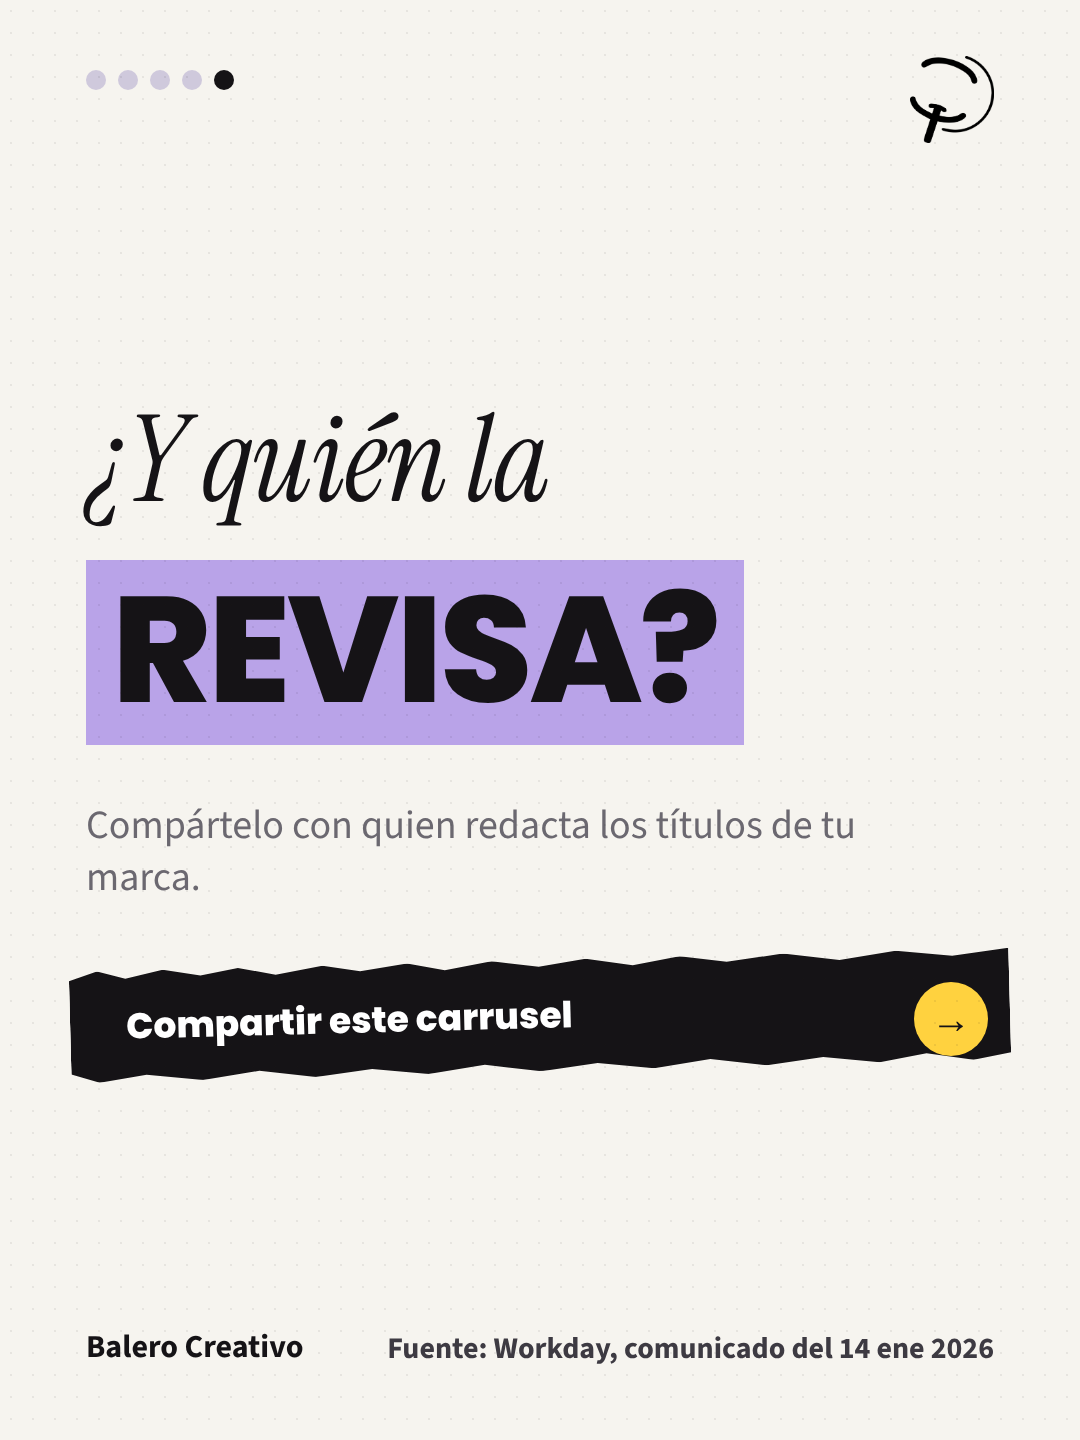
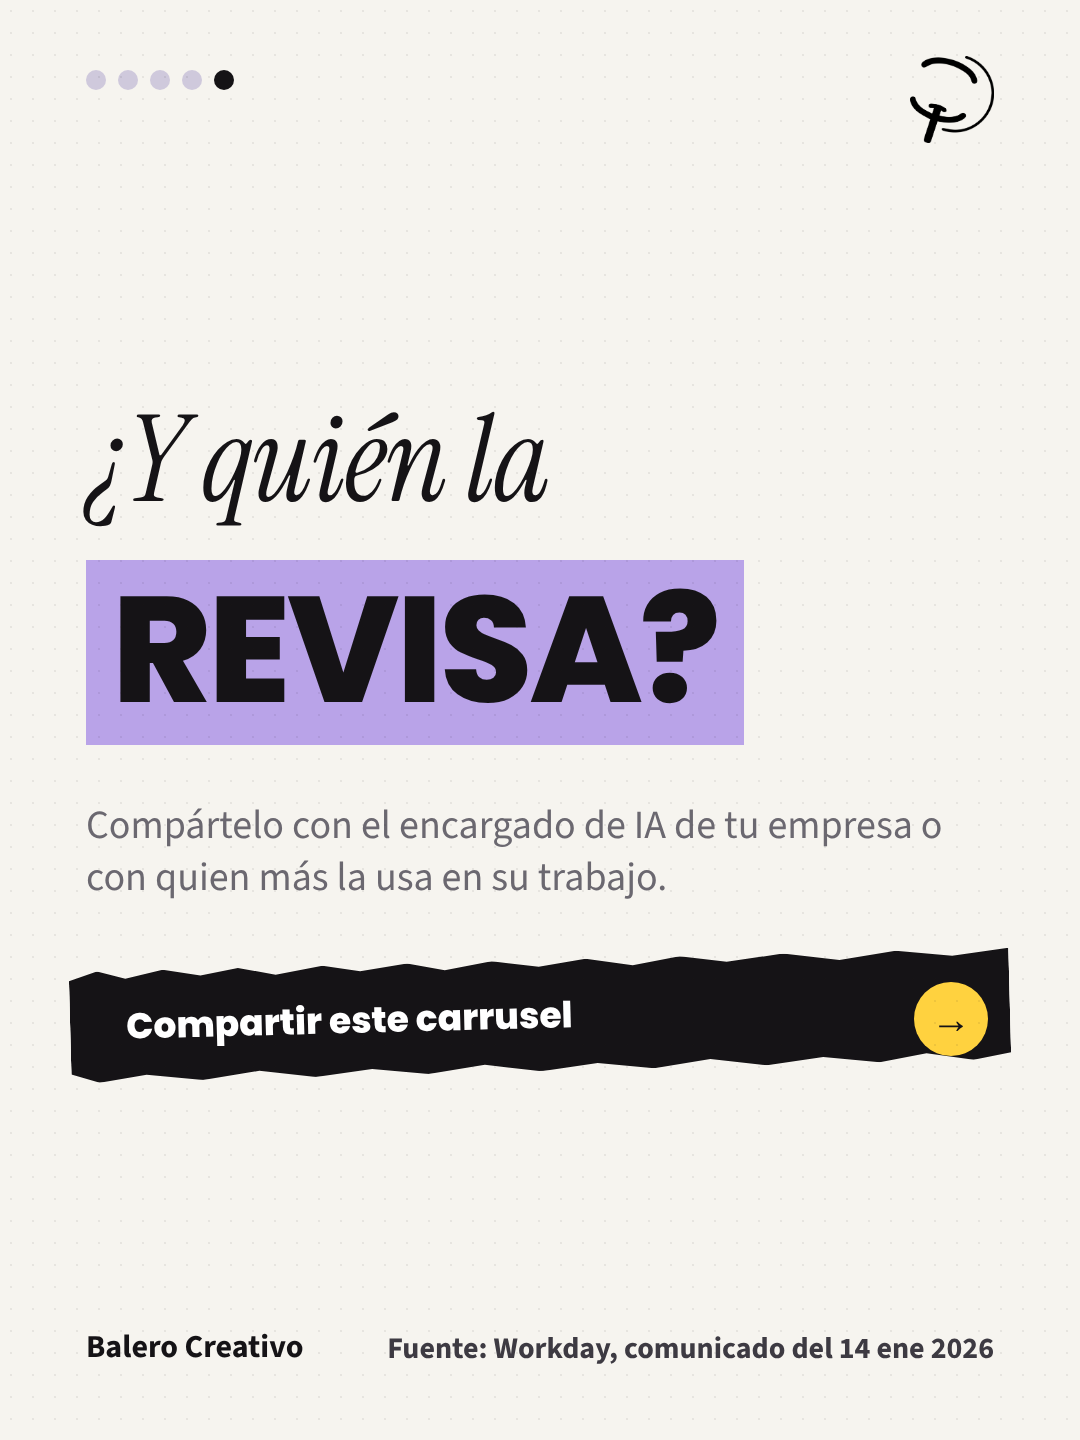
Workday: el CTA sugiere compartir con el encargado de IA o con quien más la usa
Claude-Session: https://claude.ai/code/session_01Bq7ZC7FDz5LcdZBgNXTuBm

Changed region(s): [[0.0917, 0.5625, 0.8861, 0.625]]

diff --git a/clientes/balero/diseno/2026-11/estilo-editorial/semana/workday.html b/clientes/balero/diseno/2026-11/estilo-editorial/semana/workday.html
@@ -60,4 +60,4 @@ body{background:#888}
 .meter{position:absolute;left:86px;right:86px;background:#fff;border:4px solid #151316;border-radius:26px;box-shadow:10px 12px 0 #151316;overflow:hidden}
 
 .bigy{position:absolute;left:86px;font:800 330px/.9 Poppins;background:#FFD23F;padding:10px 30px 24px;letter-spacing:-.04em}
-</style></head><body><div class="s" id="s1"><div class="dots"><i style="background:#151316"></i><i style="background:#cfc9dc"></i><i style="background:#cfc9dc"></i><i style="background:#cfc9dc"></i><i style="background:#cfc9dc"></i></div><img class="logo" src="/home/user/balero/.claude/skills/balero-imagenes/assets/logo-balero.png"><div class="kick" style="top:170px">Estudio de Workday · ene 2026</div><div class="serif" style="position:absolute;left:86px;top:250px;font-size:100px;line-height:1">Casi</div><div class="bigy" style="top:340px">40%</div><div class="big" style="top:730px;font-size:52px;line-height:1.15">DEL TIEMPO QUE TE AHORRA LA IA</div><div class="serif" style="position:absolute;left:86px;top:860px;font-size:84px;line-height:1"><span class="hl">se va en corregirla.</span></div><div style="position:absolute;left:86px;top:1020px;width:80px;height:150px;background:#FFD23F;border:4px solid #151316;border-radius:16px;box-shadow:6px 7px 0 #151316"></div><div style="position:absolute;left:178px;top:1020px;width:80px;height:150px;background:#FFD23F;border:4px solid #151316;border-radius:16px;box-shadow:6px 7px 0 #151316"></div><div style="position:absolute;left:270px;top:1020px;width:80px;height:150px;background:#FFD23F;border:4px solid #151316;border-radius:16px;box-shadow:6px 7px 0 #151316"></div><div style="position:absolute;left:362px;top:1020px;width:80px;height:150px;background:#FFD23F;border:4px solid #151316;border-radius:16px;box-shadow:6px 7px 0 #151316"></div><div style="position:absolute;left:454px;top:1020px;width:80px;height:150px;background:#fff;border:4px solid #151316;border-radius:16px;box-shadow:6px 7px 0 #151316"></div><div style="position:absolute;left:546px;top:1020px;width:80px;height:150px;background:#fff;border:4px solid #151316;border-radius:16px;box-shadow:6px 7px 0 #151316"></div><div style="position:absolute;left:638px;top:1020px;width:80px;height:150px;background:#fff;border:4px solid #151316;border-radius:16px;box-shadow:6px 7px 0 #151316"></div><div style="position:absolute;left:730px;top:1020px;width:80px;height:150px;background:#fff;border:4px solid #151316;border-radius:16px;box-shadow:6px 7px 0 #151316"></div><div style="position:absolute;left:822px;top:1020px;width:80px;height:150px;background:#fff;border:4px solid #151316;border-radius:16px;box-shadow:6px 7px 0 #151316"></div><div style="position:absolute;left:914px;top:1020px;width:80px;height:150px;background:#fff;border:4px solid #151316;border-radius:16px;box-shadow:6px 7px 0 #151316"></div><div class="lbl" style="left:86px;top:1204px;font-size:26px;color:#3d3a42">4 DE CADA 10 HORAS AHORRADAS SE VAN EN CORREGIR</div><div class="foot"><span>Balero Creativo</span></div><div style="position:absolute;right:86px;bottom:70px;font:800 30px Poppins;letter-spacing:.14em">DESLIZA →</div></div><div class="s" id="s2"><div class="dots"><i style="background:#cfc9dc"></i><i style="background:#151316"></i><i style="background:#cfc9dc"></i><i style="background:#cfc9dc"></i><i style="background:#cfc9dc"></i></div><img class="logo" src="/home/user/balero/.claude/skills/balero-imagenes/assets/logo-balero.png"><div class="chip">EL COSTO OCULTO</div><div class="t" style="top:290px;font-size:100px">Se va en<br>tres <span class="serif" style="font-size:1.25em;text-transform:none;font-weight:400;background:#FFD23F;padding:0 18px">tareas.</span></div><div class="body" style="top:590px;width:880px">Corregir, reescribir y verificar lo que produce la IA.</div><div class="row2" style="top:800px;"><i>1</i>Corregir errores</div><div class="row2" style="top:940px;"><i>2</i>Reescribir el tono</div><div class="row2" style="top:1080px;"><i>3</i>Verificar cada dato</div><div class="foot"><span>Balero Creativo</span></div><div style="position:absolute;right:86px;bottom:70px;font:700 30px 'Source Sans Pro';color:#3d3a42;text-align:right;max-width:640px">Encuesta de Workday, ene 2026</div></div><div class="s" id="s3"><div class="dots"><i style="background:#cfc9dc"></i><i style="background:#cfc9dc"></i><i style="background:#151316"></i><i style="background:#cfc9dc"></i><i style="background:#cfc9dc"></i></div><img class="logo" src="/home/user/balero/.claude/skills/balero-imagenes/assets/logo-balero.png"><div class="chip">OJO</div><div class="t" style="top:290px;font-size:92px">Es un estudio de<br>empresas <span class="serif" style="font-size:1.25em;text-transform:none;font-weight:400;background:#FFD23F;padding:0 18px">grandes.</span></div><div class="body" style="top:610px;width:880px">No es un dato de pymes ni tiene verificación independiente.</div><div style="position:absolute;left:86px;top:780px;width:430px;height:300px;background:#fff;border:4px solid #151316;border-radius:26px;box-shadow:8px 9px 0 #151316;display:flex;flex-direction:column;justify-content:center;padding:0 36px"><div style="font:800 76px/1 Poppins">3,200</div><div style="font:600 32px/1.2 'Source Sans Pro',sans-serif;margin-top:14px">empleados encuestados</div></div><div style="position:absolute;left:564px;top:780px;width:430px;height:300px;background:#B9A3E8;border:4px solid #151316;border-radius:26px;box-shadow:8px 9px 0 #151316;display:flex;flex-direction:column;justify-content:center;padding:0 36px"><div style="font:800 52px/1 Poppins">USD 100 M+</div><div style="font:600 32px/1.2 'Source Sans Pro',sans-serif;margin-top:14px">ingresos mínimos de las empresas</div></div><div style="position:absolute;left:86px;top:1140px;width:908px;height:100px;background:#151316;color:#fff;font:800 36px/100px Poppins;text-align:center;letter-spacing:.06em;border-radius:20px">NO ES UN DATO DE PYMES</div><div class="foot"><span>Balero Creativo</span></div></div><div class="s" id="s4"><div class="dots"><i style="background:#cfc9dc"></i><i style="background:#cfc9dc"></i><i style="background:#cfc9dc"></i><i style="background:#151316"></i><i style="background:#cfc9dc"></i></div><img class="logo" src="/home/user/balero/.claude/skills/balero-imagenes/assets/logo-balero.png"><div class="chip">LA LECCIÓN</div><div class="t" style="top:290px;font-size:96px">Si alguien revisa,<br>la IA <span class="serif" style="font-size:1.25em;text-transform:none;font-weight:400;background:#FFD23F;padding:0 18px">ahorra.</span></div><div class="body" style="top:610px;width:880px">Mide cuánto tiempo te toma corregir lo que genera la IA.</div><div style="position:absolute;left:86px;top:780px;width:908px;height:140px;display:flex;align-items:center;gap:34px;padding:0 44px;background:#fff;border:4px solid #151316;border-radius:26px;box-shadow:8px 9px 0 #151316;"><b style="font:800 64px Poppins;min-width:50px">1</b><span style="font:800 44px Poppins">La IA genera</span></div><div class="sc" style="left:520px;top:922px;font-size:40px">↓</div><div style="position:absolute;left:86px;top:970px;width:908px;height:140px;display:flex;align-items:center;gap:34px;padding:0 44px;background:#fff;border:4px solid #151316;border-radius:26px;box-shadow:8px 9px 0 #151316;background:#B9A3E8;"><b style="font:800 64px Poppins;min-width:50px">2</b><span style="font:800 44px Poppins">Alguien revisa</span></div><div class="sc" style="left:520px;top:1112px;font-size:40px">↓</div><div style="position:absolute;left:86px;top:1160px;width:908px;height:140px;display:flex;align-items:center;gap:34px;padding:0 44px;background:#fff;border:4px solid #151316;border-radius:26px;box-shadow:8px 9px 0 #151316;"><b style="font:800 64px Poppins;min-width:50px">3</b><span style="font:800 44px Poppins">Se publica</span></div><div class="foot"><span>Balero Creativo</span></div></div><div class="s" id="s5"><div class="dots"><i style="background:#cfc9dc"></i><i style="background:#cfc9dc"></i><i style="background:#cfc9dc"></i><i style="background:#cfc9dc"></i><i style="background:#151316"></i></div><img class="logo" src="/home/user/balero/.claude/skills/balero-imagenes/assets/logo-balero.png"><div class="serif" style="position:absolute;left:86px;top:400px;font-size:120px;line-height:1">¿Y quién la</div><div class="t" style="top:560px;font-size:150px"><span class="hl">revisa?</span></div><div class="body" style="top:800px;width:880px">Compártelo con quien redacta los títulos de tu marca.</div><div class="tape" style="top:960px;font-family:Poppins;font-weight:800;font-size:36px">Compartir este carrusel</div><div class="arrow" style="top:960px;transform:translateY(22px)">→</div><div class="foot"><span>Balero Creativo</span></div><div style="position:absolute;right:86px;bottom:70px;font:700 30px 'Source Sans Pro';color:#3d3a42;text-align:right;max-width:640px">Fuente: Workday, comunicado del 14 ene 2026</div></div></body></html>
+</style></head><body><div class="s" id="s1"><div class="dots"><i style="background:#151316"></i><i style="background:#cfc9dc"></i><i style="background:#cfc9dc"></i><i style="background:#cfc9dc"></i><i style="background:#cfc9dc"></i></div><img class="logo" src="/home/user/balero/.claude/skills/balero-imagenes/assets/logo-balero.png"><div class="kick" style="top:170px">Estudio de Workday · ene 2026</div><div class="serif" style="position:absolute;left:86px;top:250px;font-size:100px;line-height:1">Casi</div><div class="bigy" style="top:340px">40%</div><div class="big" style="top:730px;font-size:52px;line-height:1.15">DEL TIEMPO QUE TE AHORRA LA IA</div><div class="serif" style="position:absolute;left:86px;top:860px;font-size:84px;line-height:1"><span class="hl">se va en corregirla.</span></div><div style="position:absolute;left:86px;top:1020px;width:80px;height:150px;background:#FFD23F;border:4px solid #151316;border-radius:16px;box-shadow:6px 7px 0 #151316"></div><div style="position:absolute;left:178px;top:1020px;width:80px;height:150px;background:#FFD23F;border:4px solid #151316;border-radius:16px;box-shadow:6px 7px 0 #151316"></div><div style="position:absolute;left:270px;top:1020px;width:80px;height:150px;background:#FFD23F;border:4px solid #151316;border-radius:16px;box-shadow:6px 7px 0 #151316"></div><div style="position:absolute;left:362px;top:1020px;width:80px;height:150px;background:#FFD23F;border:4px solid #151316;border-radius:16px;box-shadow:6px 7px 0 #151316"></div><div style="position:absolute;left:454px;top:1020px;width:80px;height:150px;background:#fff;border:4px solid #151316;border-radius:16px;box-shadow:6px 7px 0 #151316"></div><div style="position:absolute;left:546px;top:1020px;width:80px;height:150px;background:#fff;border:4px solid #151316;border-radius:16px;box-shadow:6px 7px 0 #151316"></div><div style="position:absolute;left:638px;top:1020px;width:80px;height:150px;background:#fff;border:4px solid #151316;border-radius:16px;box-shadow:6px 7px 0 #151316"></div><div style="position:absolute;left:730px;top:1020px;width:80px;height:150px;background:#fff;border:4px solid #151316;border-radius:16px;box-shadow:6px 7px 0 #151316"></div><div style="position:absolute;left:822px;top:1020px;width:80px;height:150px;background:#fff;border:4px solid #151316;border-radius:16px;box-shadow:6px 7px 0 #151316"></div><div style="position:absolute;left:914px;top:1020px;width:80px;height:150px;background:#fff;border:4px solid #151316;border-radius:16px;box-shadow:6px 7px 0 #151316"></div><div class="lbl" style="left:86px;top:1204px;font-size:26px;color:#3d3a42">4 DE CADA 10 HORAS AHORRADAS SE VAN EN CORREGIR</div><div class="foot"><span>Balero Creativo</span></div><div style="position:absolute;right:86px;bottom:70px;font:800 30px Poppins;letter-spacing:.14em">DESLIZA →</div></div><div class="s" id="s2"><div class="dots"><i style="background:#cfc9dc"></i><i style="background:#151316"></i><i style="background:#cfc9dc"></i><i style="background:#cfc9dc"></i><i style="background:#cfc9dc"></i></div><img class="logo" src="/home/user/balero/.claude/skills/balero-imagenes/assets/logo-balero.png"><div class="chip">EL COSTO OCULTO</div><div class="t" style="top:290px;font-size:100px">Se va en<br>tres <span class="serif" style="font-size:1.25em;text-transform:none;font-weight:400;background:#FFD23F;padding:0 18px">tareas.</span></div><div class="body" style="top:590px;width:880px">Corregir, reescribir y verificar lo que produce la IA.</div><div class="row2" style="top:800px;"><i>1</i>Corregir errores</div><div class="row2" style="top:940px;"><i>2</i>Reescribir el tono</div><div class="row2" style="top:1080px;"><i>3</i>Verificar cada dato</div><div class="foot"><span>Balero Creativo</span></div><div style="position:absolute;right:86px;bottom:70px;font:700 30px 'Source Sans Pro';color:#3d3a42;text-align:right;max-width:640px">Encuesta de Workday, ene 2026</div></div><div class="s" id="s3"><div class="dots"><i style="background:#cfc9dc"></i><i style="background:#cfc9dc"></i><i style="background:#151316"></i><i style="background:#cfc9dc"></i><i style="background:#cfc9dc"></i></div><img class="logo" src="/home/user/balero/.claude/skills/balero-imagenes/assets/logo-balero.png"><div class="chip">OJO</div><div class="t" style="top:290px;font-size:92px">Es un estudio de<br>empresas <span class="serif" style="font-size:1.25em;text-transform:none;font-weight:400;background:#FFD23F;padding:0 18px">grandes.</span></div><div class="body" style="top:610px;width:880px">No es un dato de pymes ni tiene verificación independiente.</div><div style="position:absolute;left:86px;top:780px;width:430px;height:300px;background:#fff;border:4px solid #151316;border-radius:26px;box-shadow:8px 9px 0 #151316;display:flex;flex-direction:column;justify-content:center;padding:0 36px"><div style="font:800 76px/1 Poppins">3,200</div><div style="font:600 32px/1.2 'Source Sans Pro',sans-serif;margin-top:14px">empleados encuestados</div></div><div style="position:absolute;left:564px;top:780px;width:430px;height:300px;background:#B9A3E8;border:4px solid #151316;border-radius:26px;box-shadow:8px 9px 0 #151316;display:flex;flex-direction:column;justify-content:center;padding:0 36px"><div style="font:800 52px/1 Poppins">USD 100 M+</div><div style="font:600 32px/1.2 'Source Sans Pro',sans-serif;margin-top:14px">ingresos mínimos de las empresas</div></div><div style="position:absolute;left:86px;top:1140px;width:908px;height:100px;background:#151316;color:#fff;font:800 36px/100px Poppins;text-align:center;letter-spacing:.06em;border-radius:20px">NO ES UN DATO DE PYMES</div><div class="foot"><span>Balero Creativo</span></div></div><div class="s" id="s4"><div class="dots"><i style="background:#cfc9dc"></i><i style="background:#cfc9dc"></i><i style="background:#cfc9dc"></i><i style="background:#151316"></i><i style="background:#cfc9dc"></i></div><img class="logo" src="/home/user/balero/.claude/skills/balero-imagenes/assets/logo-balero.png"><div class="chip">LA LECCIÓN</div><div class="t" style="top:290px;font-size:96px">Si alguien revisa,<br>la IA <span class="serif" style="font-size:1.25em;text-transform:none;font-weight:400;background:#FFD23F;padding:0 18px">ahorra.</span></div><div class="body" style="top:610px;width:880px">Mide cuánto tiempo te toma corregir lo que genera la IA.</div><div style="position:absolute;left:86px;top:780px;width:908px;height:140px;display:flex;align-items:center;gap:34px;padding:0 44px;background:#fff;border:4px solid #151316;border-radius:26px;box-shadow:8px 9px 0 #151316;"><b style="font:800 64px Poppins;min-width:50px">1</b><span style="font:800 44px Poppins">La IA genera</span></div><div class="sc" style="left:520px;top:922px;font-size:40px">↓</div><div style="position:absolute;left:86px;top:970px;width:908px;height:140px;display:flex;align-items:center;gap:34px;padding:0 44px;background:#fff;border:4px solid #151316;border-radius:26px;box-shadow:8px 9px 0 #151316;background:#B9A3E8;"><b style="font:800 64px Poppins;min-width:50px">2</b><span style="font:800 44px Poppins">Alguien revisa</span></div><div class="sc" style="left:520px;top:1112px;font-size:40px">↓</div><div style="position:absolute;left:86px;top:1160px;width:908px;height:140px;display:flex;align-items:center;gap:34px;padding:0 44px;background:#fff;border:4px solid #151316;border-radius:26px;box-shadow:8px 9px 0 #151316;"><b style="font:800 64px Poppins;min-width:50px">3</b><span style="font:800 44px Poppins">Se publica</span></div><div class="foot"><span>Balero Creativo</span></div></div><div class="s" id="s5"><div class="dots"><i style="background:#cfc9dc"></i><i style="background:#cfc9dc"></i><i style="background:#cfc9dc"></i><i style="background:#cfc9dc"></i><i style="background:#151316"></i></div><img class="logo" src="/home/user/balero/.claude/skills/balero-imagenes/assets/logo-balero.png"><div class="serif" style="position:absolute;left:86px;top:400px;font-size:120px;line-height:1">¿Y quién la</div><div class="t" style="top:560px;font-size:150px"><span class="hl">revisa?</span></div><div class="body" style="top:800px;width:880px">Compártelo con el encargado de IA de tu empresa o con quien más la usa en su trabajo.</div><div class="tape" style="top:960px;font-family:Poppins;font-weight:800;font-size:36px">Compartir este carrusel</div><div class="arrow" style="top:960px;transform:translateY(22px)">→</div><div class="foot"><span>Balero Creativo</span></div><div style="position:absolute;right:86px;bottom:70px;font:700 30px 'Source Sans Pro';color:#3d3a42;text-align:right;max-width:640px">Fuente: Workday, comunicado del 14 ene 2026</div></div></body></html>

diff --git a/clientes/balero/diseno/2026-11/estilo-editorial/semana/defs.py b/clientes/balero/diseno/2026-11/estilo-editorial/semana/defs.py
@@ -68,7 +68,7 @@ work=[
    wcard(86,780,430,300,'3,200','empleados encuestados')+wcard(564,780,430,300,'USD 100 M+','ingresos mínimos de las empresas','#B9A3E8',fs=52)+
    '<div style="position:absolute;left:86px;top:1140px;width:908px;height:100px;background:#151316;color:#fff;font:800 36px/100px Poppins;text-align:center;letter-spacing:.06em;border-radius:20px">NO ES UN DATO DE PYMES</div>', F),
  (chip('LA LECCIÓN')+title('Si alguien revisa,','la IA '+hl('ahorra.'),96)+body('Mide cuánto tiempo te toma corregir lo que genera la IA.')+vflow(780), F),
- (serif('¿Y quién la',400,120)+'<div class="t" style="top:560px;font-size:150px"><span class="hl">revisa?</span></div>'+body('Compártelo con quien redacta los títulos de tu marca.',800)+tape('Compartir este carrusel',960), foot('Fuente: Workday, comunicado del 14 ene 2026')),
+ (serif('¿Y quién la',400,120)+'<div class="t" style="top:560px;font-size:150px"><span class="hl">revisa?</span></div>'+body('Compártelo con el encargado de IA de tu empresa o con quien más la usa en su trabajo.',800)+tape('Compartir este carrusel',960), foot('Fuente: Workday, comunicado del 14 ene 2026')),
 ]
 # ---------- TRIGGER ----------
 rays=''.join(f'<div style="position:absolute;left:{755+int(150*__import__("math").cos(a))-6}px;top:{855+int(150*__import__("math").sin(a))-28}px;width:12px;height:56px;background:#151316;border-radius:6px;transform:rotate({int(a*180/3.14159)+90}deg)"></div>' for a in [(-2.9+i*0.52) for i in range(0,9)])
